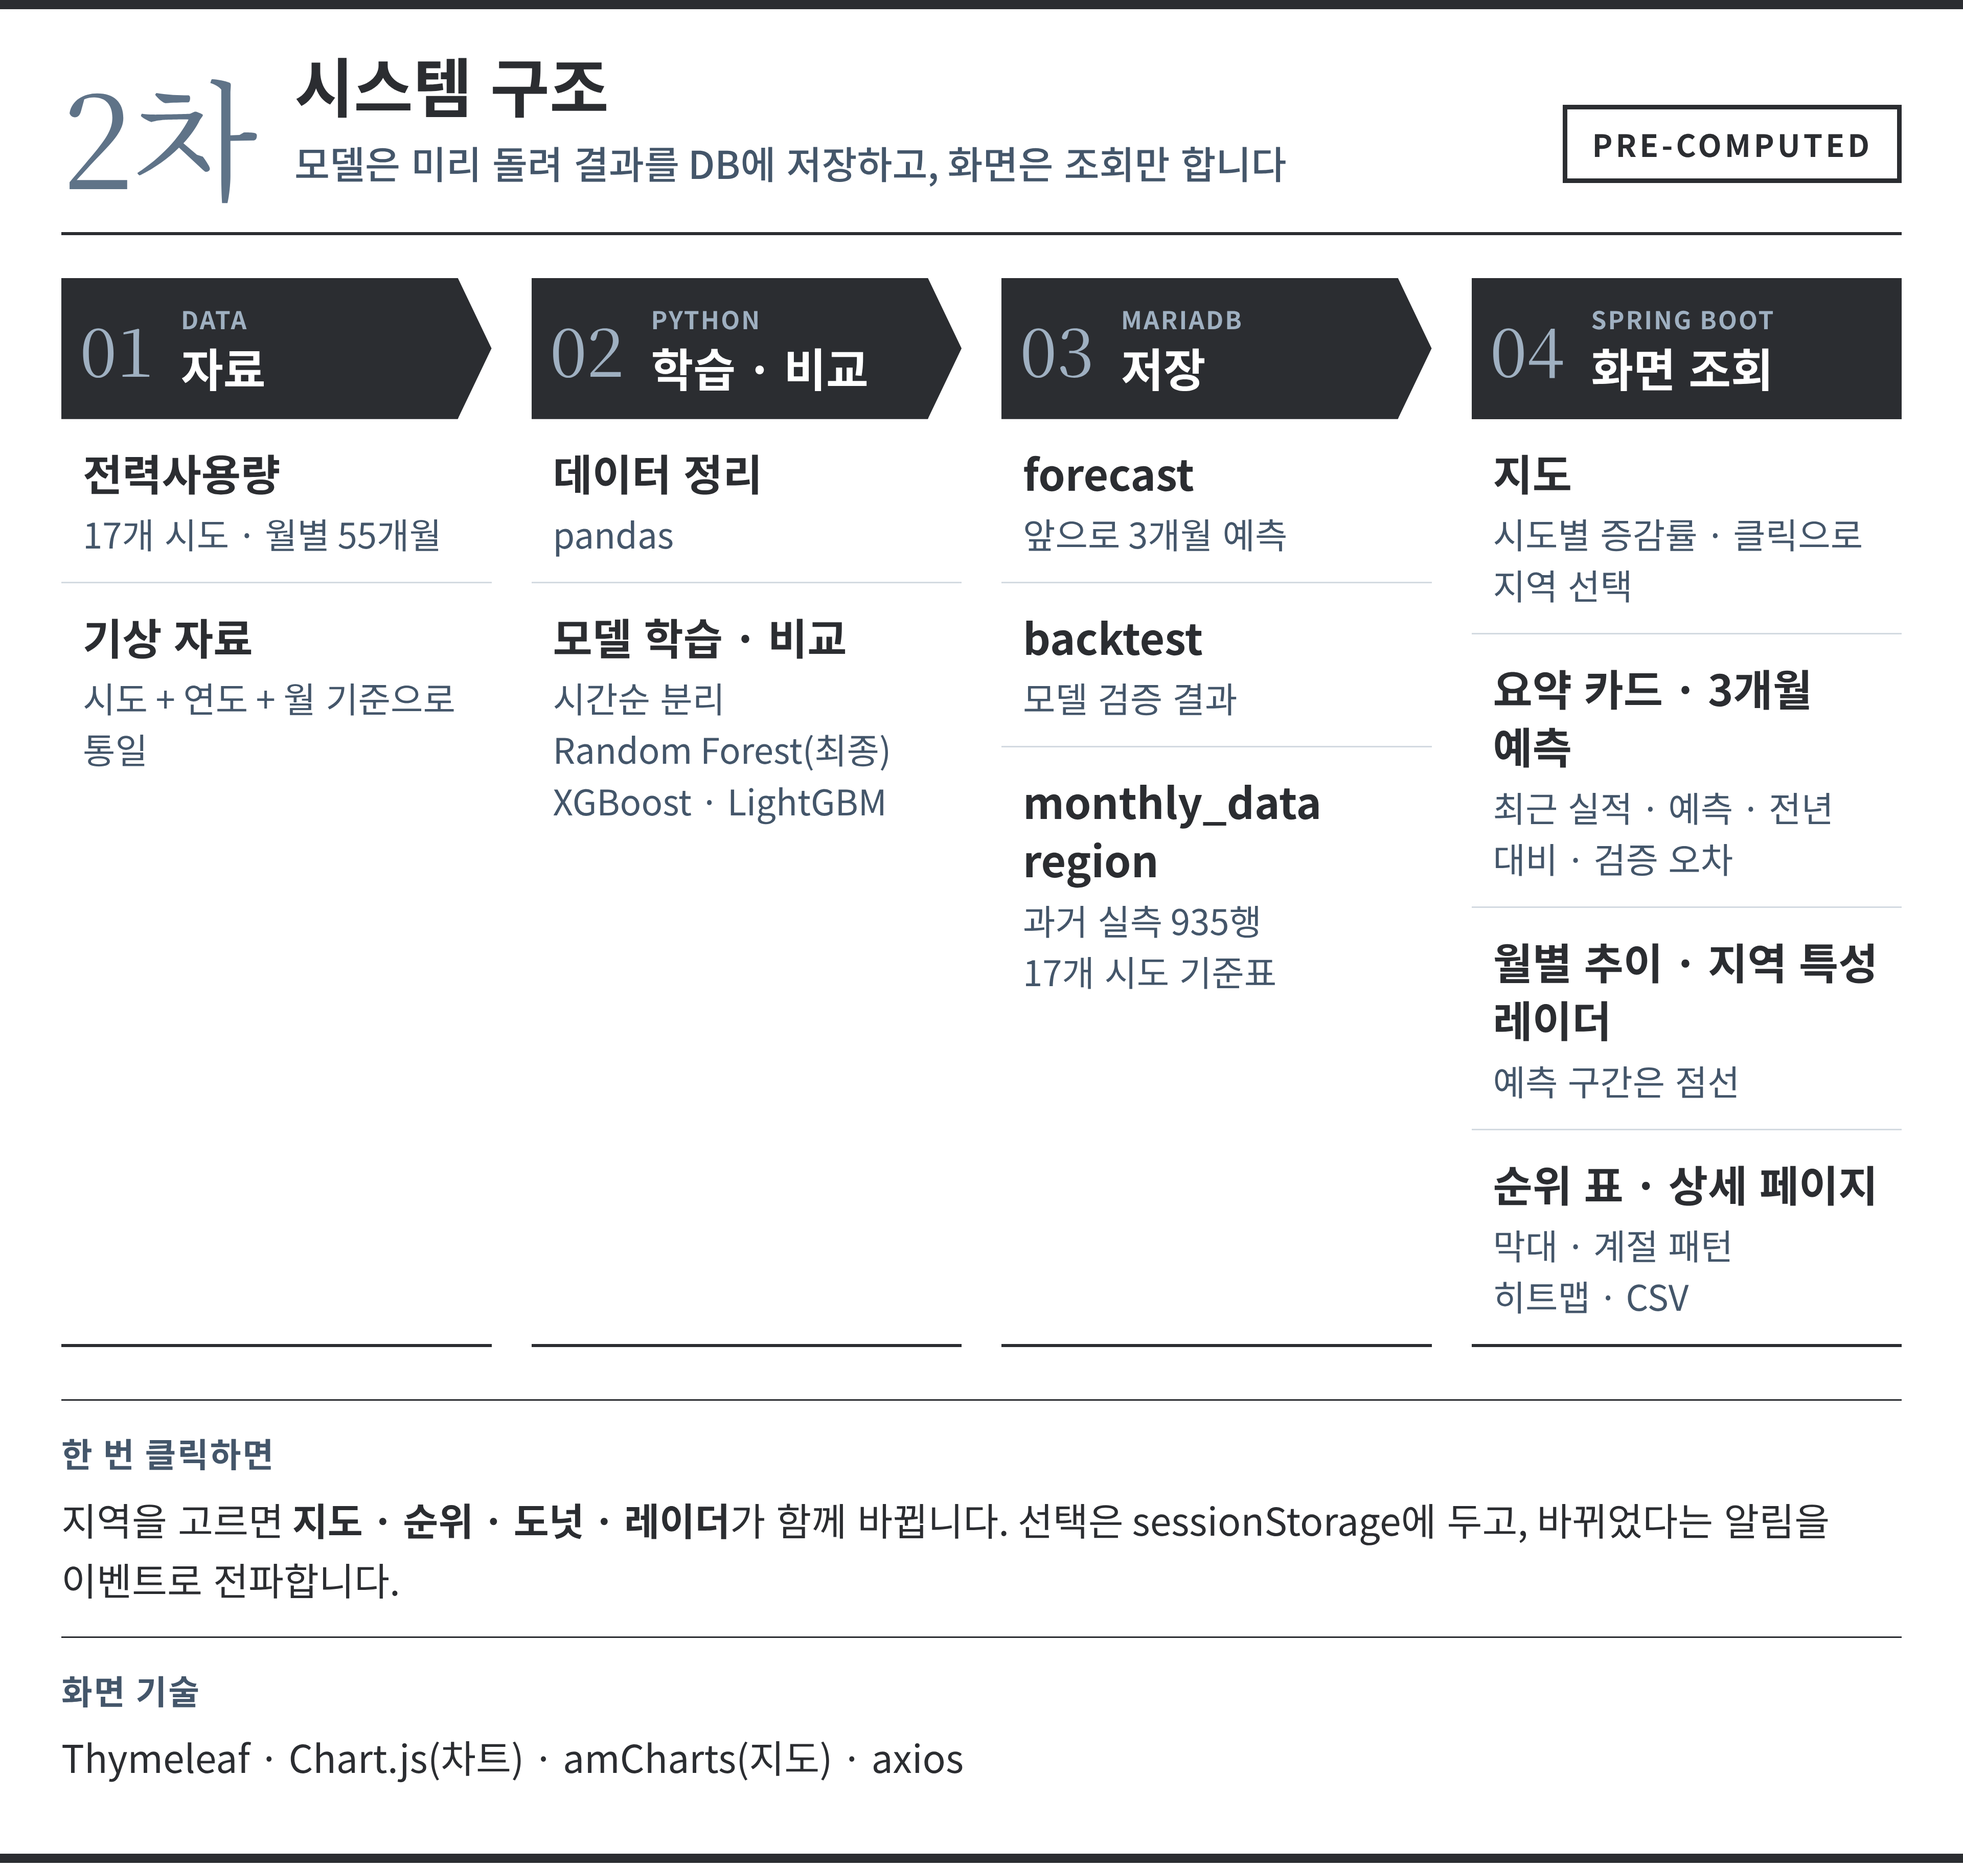
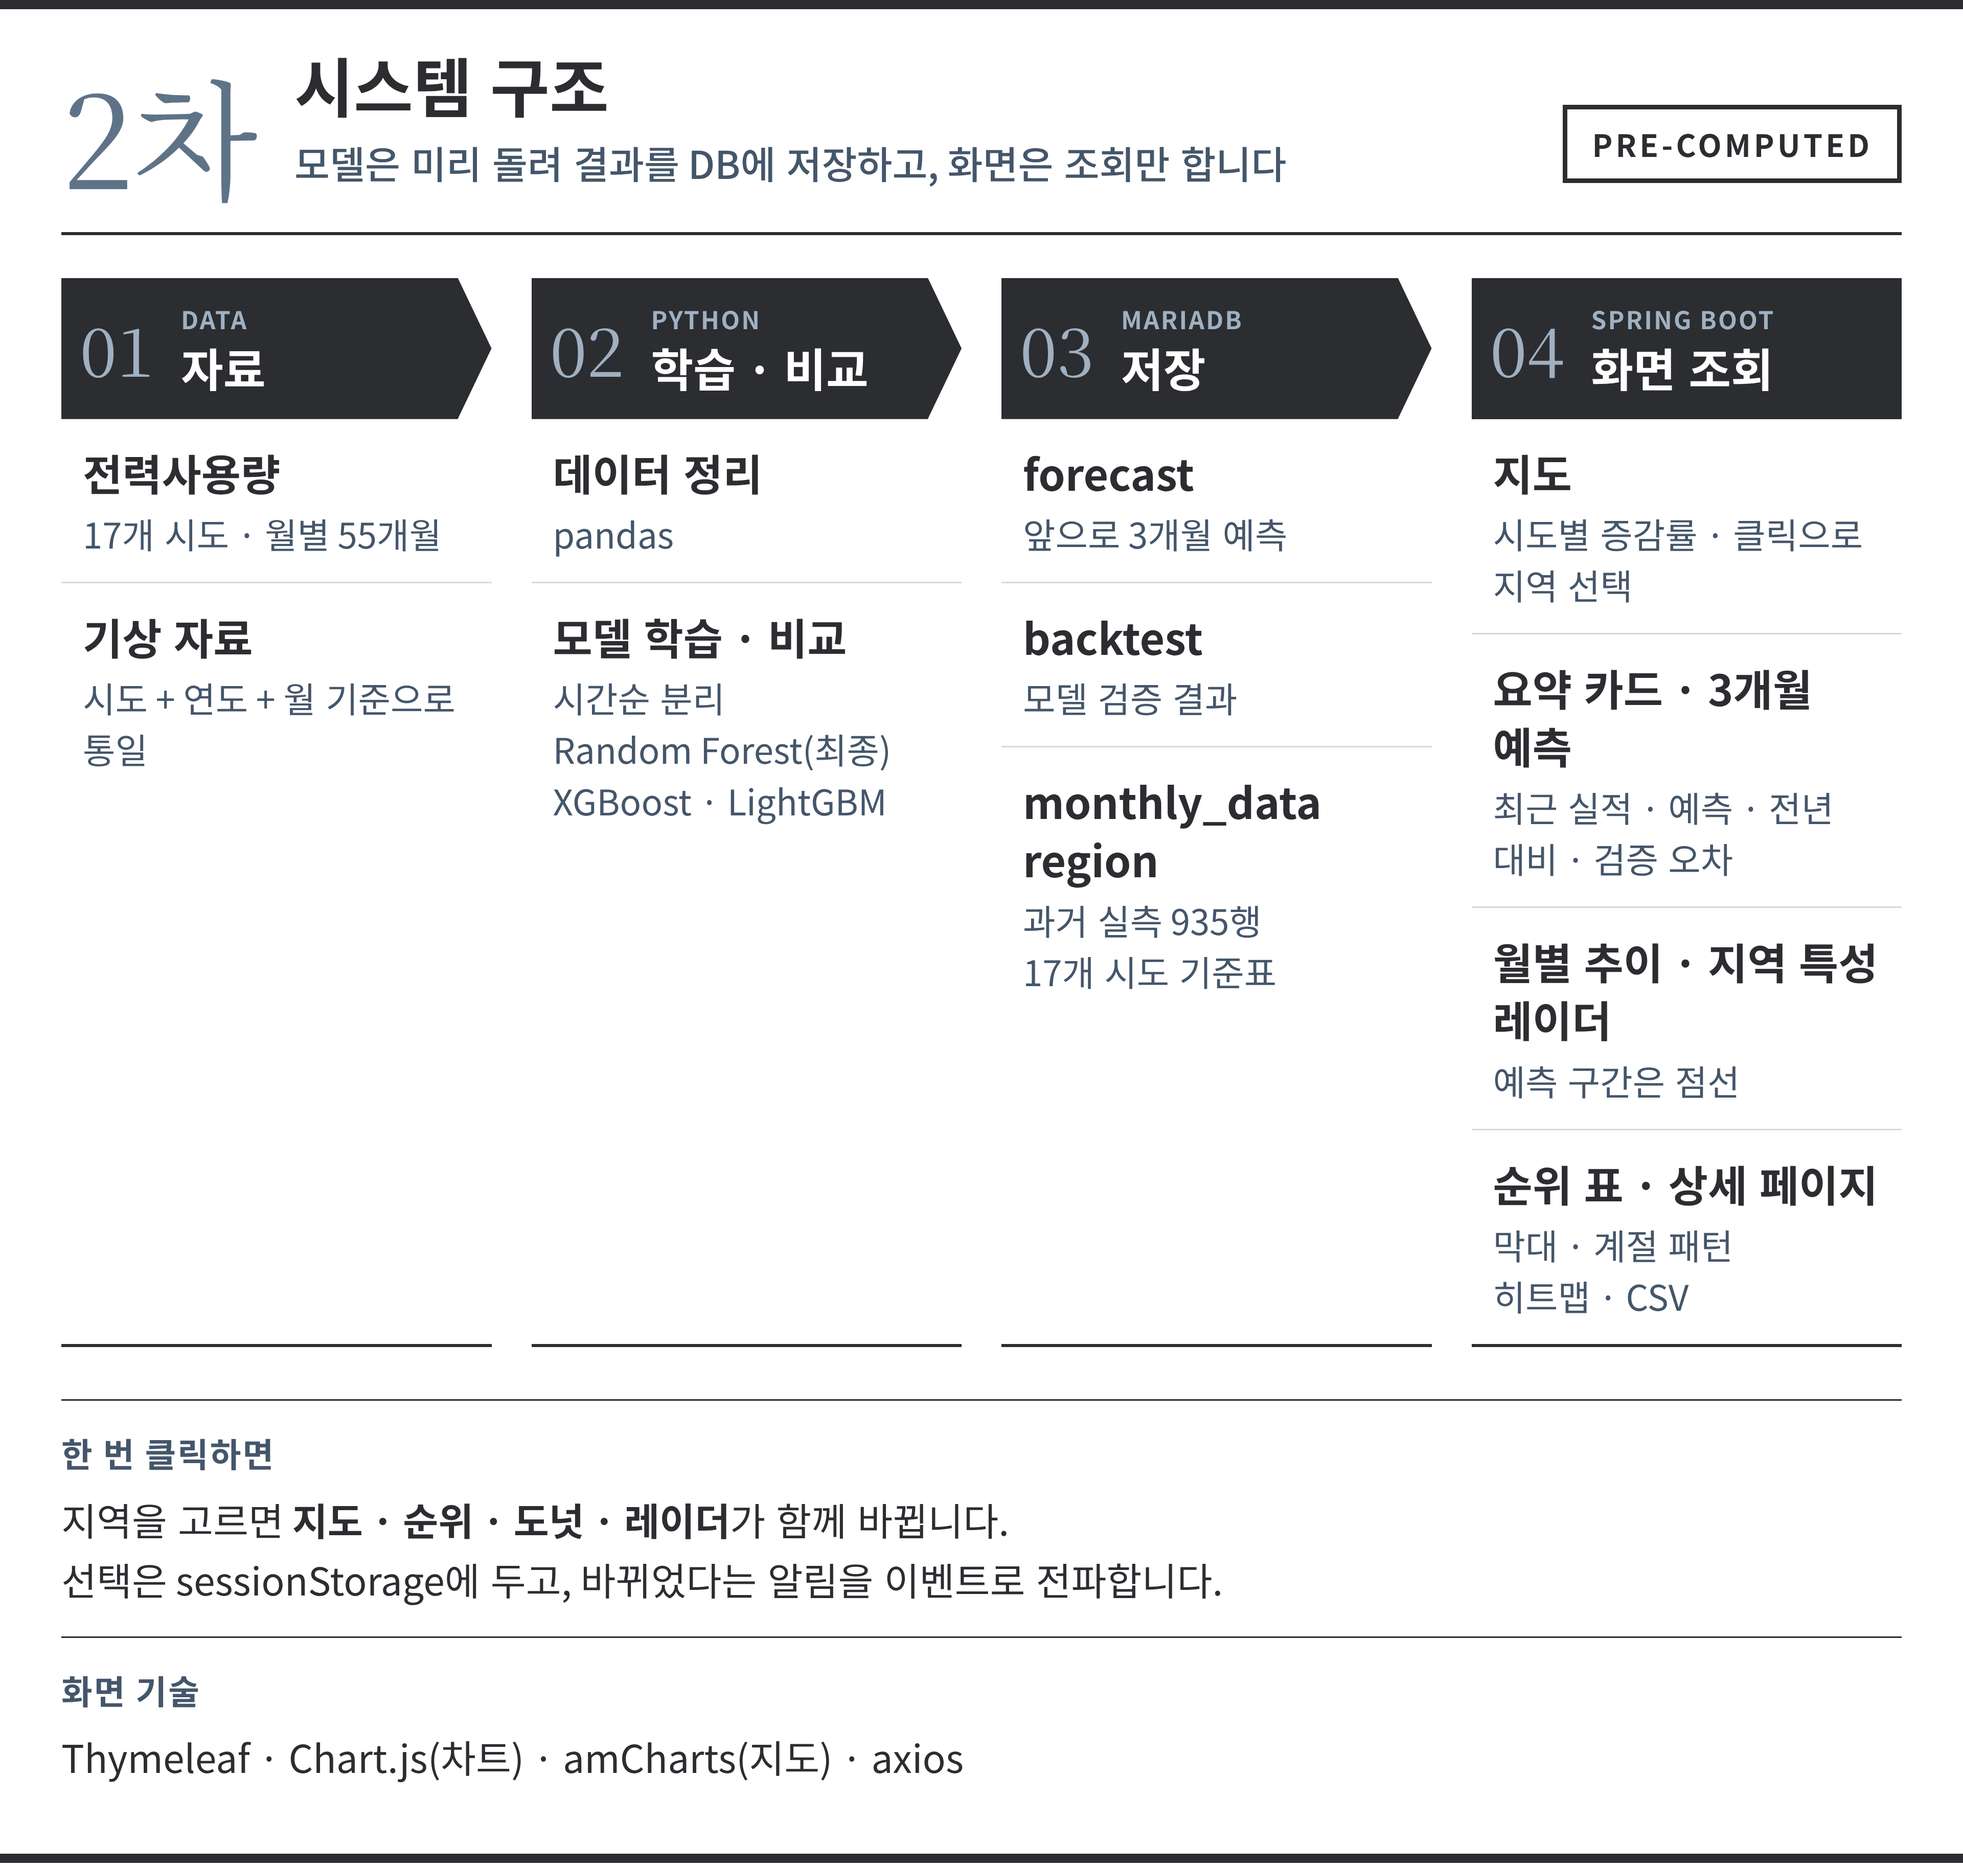
v41: 구조도 하단 문구 줄바꿈
Claude-Session: https://claude.ai/code/session_01Se2j2MFpR9Hu6PjE7Miv5o

diff --git a/src/v40/arch-p3.html b/src/v40/arch-p3.html
@@ -34,5 +34,5 @@ body{width:1280px;height:2400px;background:#fff;font-family:'Noto Sans CJK KR';c
 <div class="col "><div class=ch><div class=num>03</div><div><div class=k>BROWSER</div><div class=h>화면</div></div></div><div class=it><b>경로 탐색</b><span>출발&nbsp;· 도착 항구 선택&nbsp;· 두 경로를 한 지도에</span></div><div class=it><b>교통현황</b><span>선박 수&nbsp;· 밀집도<br>사고위험 칸&nbsp;· 사고<br>좌초 지점</span></div><div class=it><b>안전진단</b><span>파고&nbsp;· 풍속 72시간 그래프<br>출발지(실선)와 도착지(점선) 비교</span></div><div class=it><b>출항 시각&nbsp;· 항만 CCTV</b><span>화면 전체가<br>같은 시각 기준으로 표시</span></div></div>
 </div>
 <div style="height:34px"></div>
-<div class=strip><div class=k>시험 후 미사용</div><div class=v><b>날씨로 사고 구분</b>　로지스틱 회귀 등으로 돌려 봤지만 AUC 0.549라 서비스에는 쓰지 않았습니다. 날씨는 운항 한계 판정(파고 4m&nbsp;· 풍속 20m/s)에만 쓰고, 가중치 11조합은 MTIS 사고다발 26칸으로 채점해 골랐습니다.</div></div>
+<div class=strip><div class=k>시험 후 미사용</div><div class=v><b>날씨로 사고 구분</b>　로지스틱 회귀 등으로 돌려 봤지만 AUC 0.549라 서비스에는 쓰지 않았습니다.<br>날씨는 운항 한계 판정(파고 4m&nbsp;· 풍속 20m/s)에만 쓰고,<br>가중치 11조합은 MTIS 사고다발 26칸으로 채점해 골랐습니다.</div></div>
 <div class=end></div>

diff --git a/src/v40/arch-p2.html b/src/v40/arch-p2.html
@@ -35,6 +35,6 @@ body{width:1280px;height:2400px;background:#fff;font-family:'Noto Sans CJK KR';c
 <div class="col "><div class=ch><div class=num>04</div><div><div class=k>SPRING BOOT</div><div class=h>화면 조회</div></div></div><div class=it><b>지도</b><span>시도별 증감률&nbsp;· 클릭으로 지역 선택</span></div><div class=it><b>요약 카드&nbsp;· 3개월 예측</b><span>최근 실적&nbsp;· 예측&nbsp;· 전년 대비&nbsp;· 검증 오차</span></div><div class=it><b>월별 추이&nbsp;· 지역 특성 레이더</b><span>예측 구간은 점선</span></div><div class=it><b>순위 표&nbsp;· 상세 페이지</b><span>막대&nbsp;· 계절 패턴<br>히트맵&nbsp;· CSV</span></div></div>
 </div>
 <div style="height:34px"></div>
-<div class=strip><div class=k>한 번 클릭하면</div><div class=v>지역을 고르면 <b>지도&nbsp;· 순위&nbsp;· 도넛&nbsp;· 레이더</b>가 함께 바뀝니다. 선택은 sessionStorage에 두고, 바뀌었다는 알림을 이벤트로 전파합니다.</div></div>
+<div class=strip><div class=k>한 번 클릭하면</div><div class=v>지역을 고르면 <b>지도&nbsp;· 순위&nbsp;· 도넛&nbsp;· 레이더</b>가 함께 바뀝니다.<br>선택은 sessionStorage에 두고, 바뀌었다는 알림을 이벤트로 전파합니다.</div></div>
 <div class=strip><div class=k>화면 기술</div><div class=v>Thymeleaf&nbsp;· Chart.js(차트)&nbsp;· amCharts(지도)&nbsp;· axios</div></div>
 <div class=end></div>
